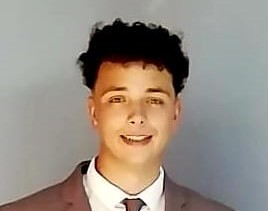
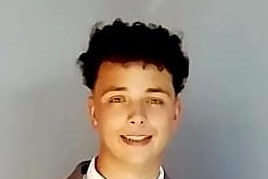
added.html8

Changed region(s): [[0.0, 0.0838, 0.8955, 1.0]]

diff --git a/jarod-boshoff-resume8.html b/jarod-boshoff-resume8.html
@@ -1,0 +1,124 @@
+<!DOCTYPE html>
+<html>
+  <head>
+    <title>resume-1-jarod-boshoff</title>
+    <link rel="stylesheet" href="./CSS/stylesheet8.css">
+  </head>
+  <body>
+    
+     <nav id="navbar">
+        <a class="nav-link" href="#Education">Education</a> |
+        <a class="nav-link" href="#Experience">Experience</a> |
+        <a class="nav-link" href="#Skills">Skills</a>
+    </nav>
+        
+    <header class="hero-image">
+        <div class="hero-text">
+            <h1>Jarod Boshoff</h1>
+            <p>An introductory personal statement.</p>
+           
+    <picture>
+        <source srcset="./pictures/headshot.jpg" style="height: 500px;" media="(max-width: 600px)">
+        <source srcset="./pictures/shouldershot.jpg" style="height: 500px;" media="(max-width: 1000px)">
+        <img src= "./pictures/bodyshot.jpg" class="image-main" style="height: 500px;">
+    </picture>
+    <p><a href="#" class="hero-btn">Hire Me</a></p>
+  </div>
+    </header>
+
+    <a id="back-to-top" href="#top">
+    <button>
+        &UpArrow;
+    </button>
+    </a>
+
+        <section>
+        <article>
+        <h2 id="Education">Education</h2>
+
+        <h3>Bachelor of Computer Science</h3>
+          <p>Stanford University <br>
+             September 2008 - July 2012</p>
+          <p>Heavy Focus on full stack engineering with modules on both front and back end processers.
+            <br>
+            Built a mock payment system for an android e Commerce app for a senior year project.</p>
+        </article>
+        </section>
+
+        <section>
+            <article>
+            <h3>Codespace Software Development </h3>
+              <p>Codespace <br>
+                 April 2013 - November 2013</p>
+              <p>Heavy focus on learning multiple coding languages such as HTML, CSS, Scratch, JavaScript, etc.
+              <br>
+                 Built a webpage CV on Visual Studio Code for one of my final projects.</p>
+            </article>
+            </section>
+
+        <section>
+            <article>
+            <h2 id="Experience">Experience</h2>
+            <h3>Software Development Intern</h3>
+            June 2014 - Jan 2016
+            <br>
+            Kell Tech
+          <ul>
+            <li> Kell Tech’s testing and engineering processes.</li>
+            <li>Confirmed that completed software met client requirements.</li>
+            <li>Completed maintenance on existing programs.</li>
+            <li>Worked closely with product team on scope of future projects and innovations.</li>
+            <li>Carried out continuous identification, measurement, and improvement of processes.</li>
+          </ul>
+          </article>
+        
+        
+        </section>
+
+        <section>
+        <article>
+            <h3>Software Engineer</h3>
+            July 2016 - June 2020
+            <br>
+            CirroStratus Inc.
+            </article>
+            <article>
+          <ul>
+            <li>Engineered modern applications with Java, JavaScript, SQL Server and No SQL.</li>
+            <li>Built innovative micro services and Web Services (Incl, SOA/SOAP/REST/XML).</li>
+            <li>Utilized Cloud Foundry for efficient building.</li>
+            <li>Efficiently deployed and integrated software engineered by team and updated integration/ deployment scripts to improve continuos integration practises. </li>
+            <li>Collaborated closely with a team of developers to ensure applications in development were user friendly and intuitive to use.</li>
+            <li>Built over 50 custom applications for clients per year, leading development teams on these application projects</li>
+          </ul>
+        </article>
+        </section>
+
+        <section>
+          <article>
+        <h2 id="Skills">Skills</h2>
+        
+        <ul>
+          <li>Be able to demonstrate a strong understanding of Design Patterns</li>
+          <li>Ability to quickly learn new technologies and adapt to a growing and evolving team environment.</li>
+          <li>Develop a highly available and performant processing engine.</li>
+          <li>Base knowledge of the W3C’s Web Content Accessibility Guidelines v2.0.</li>
+          <li>Proficient understanding of code versioning tools, such as git.</li>
+          <li>Proficient understanding of cross-browser compatibility issues and ways to work around such issues.</li>
+          <li>Ability to communicate effectively.</li>
+          <li> Knowledge of Flash development</li>
+          <li>Strong understanding of web markup, including HTML5 and CSS3</li>
+         </ul>
+         </article>
+        </section>
+
+        <article>
+          <section>
+         <footer>
+         <h2 id="Contact-Details">Contact Details</h3></h2>
+         <a href="https://www.linkedin.com/">Linked In</a>
+         </footer>
+        </section>
+        </article>
+  </body>
+</html>

diff --git a/CSS/stylesheet8.css b/CSS/stylesheet8.css
@@ -1,0 +1,168 @@
+h2 {
+    color: blue;
+}
+
+h3 {
+    color: blue;
+}
+
+body {
+    font-size: 20px;
+    color: black;
+    background-color: white; margin: 0%;
+    height: 100vh;
+    font-family: Arial, Helvetica, sans-serif;
+    }
+
+#Education {
+    color: blue;
+    padding-top: 25px;
+}
+
+#Experience {
+    color: blue;
+    padding-top: 25px;
+}
+
+#Skills {
+    color: blue;
+    padding-top: 25px;
+}
+
+#Contact-Details {
+    color: blue;
+    padding-top: 25px;
+}
+
+section {
+    background-color: white;
+    margin-left: 100px;
+    padding: 15px;
+    margin-top: 20px;
+    margin-bottom: 20px;
+}
+
+header {
+    background-color: dodgerblue;
+    padding: 50px;
+}
+.image-main {
+    border: 5px solid;
+    border-color: white ;
+    display: block;
+    margin-left: auto;
+    margin-right: auto;
+    border-radius: 50%
+    
+}
+    
+.A {
+    text-align: center;
+}
+
+h1 {
+    text-align: center;
+}
+
+#navbar {
+    background-color: rgb(23, 23, 23);
+    color: white;
+    text-align: center;
+    z-index: 1;
+    position: fixed;
+    top: 0;
+    margin: 0;
+    width: 100%;
+    margin-bottom: 100px;
+}
+
+.nav-link {
+    text-decoration: none;
+    color:white;
+    margin: 0 4vw;
+}
+
+.nav-link:hover {
+    color: rgb(255, 208, 0);
+    text-decoration: none;
+}
+button:hover {
+    background-color: blue;
+    text-decoration: none;
+}
+#back-to-top > button{
+    background-color: blue;
+    border-radius: 50%;
+    border: solid 1px blue;
+    width: 50px;
+    height: 50px;
+}
+#back-to-top:hover > button {
+    border: solid 1px blue;
+    background-color: white;
+    
+}
+#back-to-top > button {
+    text-decoration: none;
+    color: whitesmoke;
+}
+#back-to-top:hover > button {
+    text-decoration: none;
+    color: rgb(198, 156, 78);
+}
+
+#back-to-top {
+    position: fixed;
+    bottom: 80px;
+    right: 80px;
+}
+
+body {
+    margin: 0;
+    padding: 0;
+    height: 100vh;
+    font-family: Arial, Helvetica, sans-serif;
+}
+.hero-image{
+    background-image: linear-gradient(
+        rgba(0,0,0,0.5),
+        rgba(0,0,0,0.5)),
+        url("../pictures/code.jpg");
+        background-position: center;
+        background-repeat: no-repeat;
+        background-size: cover;
+        height: 80%;
+        display: flex;
+        justify-content: center;
+}
+.hero-text {
+    align-items: center;
+    align-content: center;
+    text-align: center;
+    color: white;
+}
+
+.hero-text h1 {
+    font-size: 50px;
+    font-weight: 500;
+}
+
+.hero-text p {
+    font-size: 30px;
+    font-weight: 500;
+}
+
+.hero-btn {
+    color: white;
+    text-decoration: none;
+    background-color: black;
+    padding: 10px 30px;
+    border-radius: 5px;
+    margin-top: 10px;
+    display: inline-block;
+}
+.hero-btn:hover {
+    background: white;
+    color: black;
+    
+}
